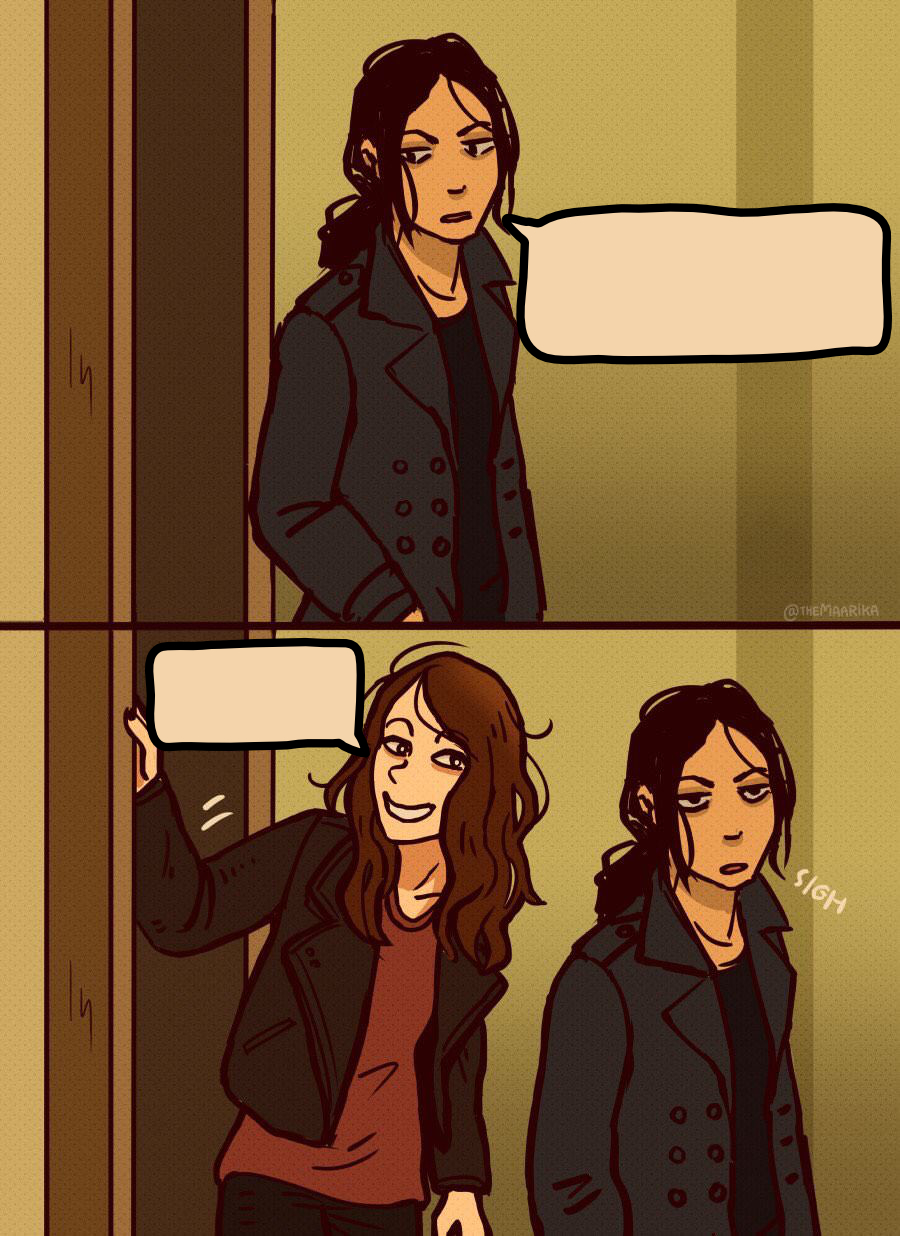
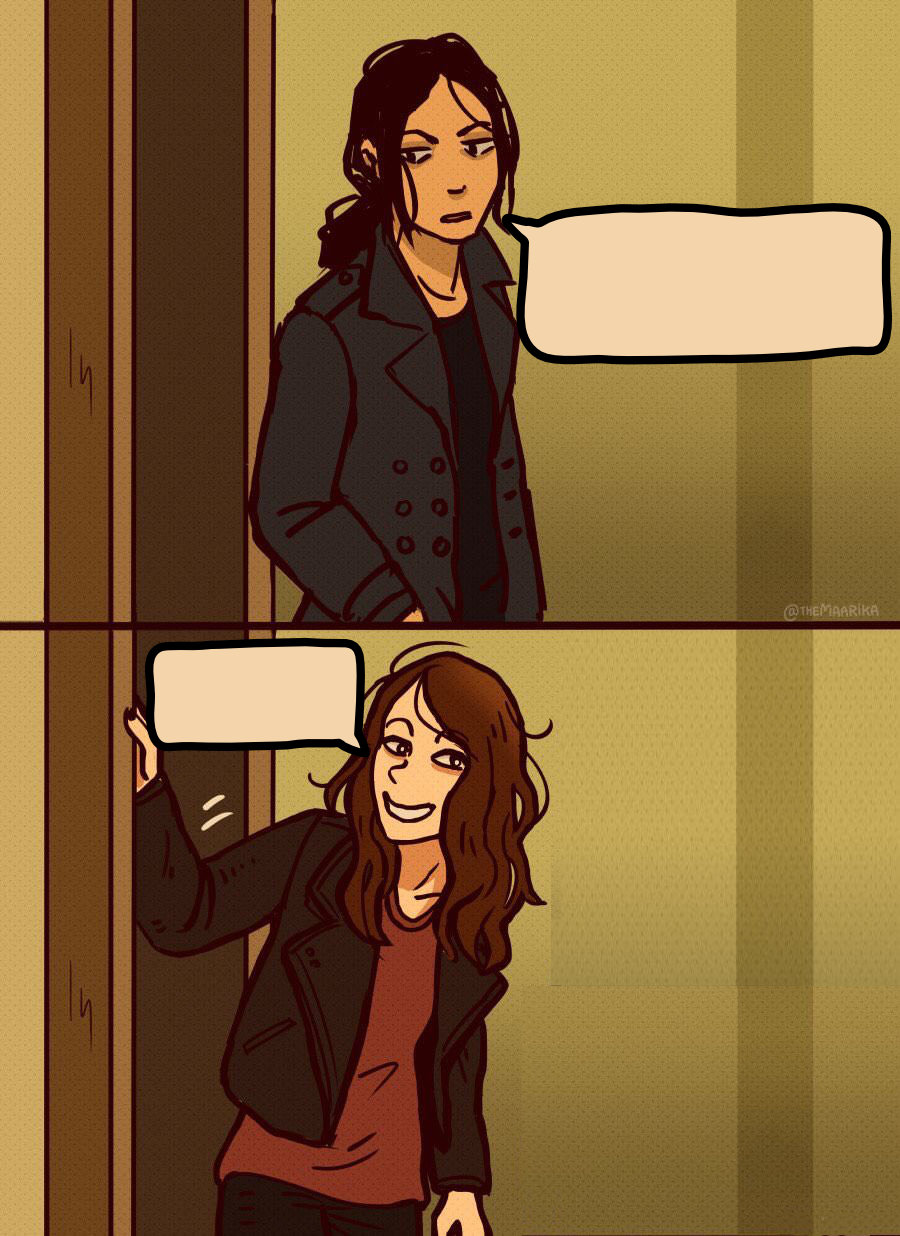
Allow making the girl tall in sorry I’m late (#140)

Changed region(s): [[0.56, 0.5534, 0.9333, 1.0]]

diff --git a/generators/SorryImLate/buildAltText.ts b/generators/SorryImLate/buildAltText.ts
@@ -2,17 +2,19 @@ import { SettingValues } from '../../types/SettingTypes';
 import { SorryImLateSettings } from './types';
 
 export const buildAltText = (settings: SettingValues<SorryImLateSettings>) => {
-  const { panel1Text, panel2Text } = settings;
+  const { panel1Text, panel2Text, tallGirl } = settings;
 
   const panel1Description = panel1Text
     ? `saying "${panel1Text}"`
     : 'and has an empty speech bubble';
   const panel2Description = panel2Text ? `"${panel2Text}"` : 'nothing';
 
+  const heightDescription = tallGirl === 'Yes' ? ', taller ' : '';
+
   return (
     'A two panel comic. ' +
     `In the first panel, a woman in a long black coat and black hair tied in a ponytail is walking through a door ${panel1Description}. ` +
-    `In the second panel, another woman in a leather jacket and shoulder length brown hair is leaning through the doorway saying ${panel2Description}. ` +
+    `In the second panel, another${heightDescription} woman in a leather jacket and shoulder length brown hair is leaning through the doorway saying ${panel2Description}. ` +
     'The first woman is sighing.'
   );
 };

diff --git a/generators/SorryImLate/generate.ts b/generators/SorryImLate/generate.ts
@@ -8,9 +8,9 @@ import { SorryImLateSettings } from './types';
 
 export const generate: GeneratorFunction<SorryImLateSettings> = async (
   canvas,
-  settings
+  settings,
 ) => {
-  const { panel1Text = '', panel2Text } = settings;
+  const { panel1Text = '', panel2Text, tallGirl } = settings;
 
   const image = await loadImage('/assets/sorry-im-late.jpg');
   const { width, height } = image;
@@ -26,6 +26,10 @@ export const generate: GeneratorFunction<SorryImLateSettings> = async (
   }
 
   ctx.drawImage(image, 0, 0);
+
+  const girlImage = await loadImage('/assets/sorry-im-late-girl.png');
+  const girlY = tallGirl === 'Yes' ? 753 : 673;
+  ctx.drawImage(girlImage, 515, girlY);
 
   const multilineText = new MultilineText(ctx, { fontSize: FONT_SIZE });
 

diff --git a/generators/SorryImLate/index.ts b/generators/SorryImLate/index.ts
@@ -23,5 +23,13 @@ export const sorryImLateGenerator: Generator<SorryImLateSettings> = {
       type: SettingType.Text,
       params: {},
     },
+    tallGirl: {
+      name: 'Tall girl',
+      type: SettingType.Dropdown,
+      params: {
+        options: ['No', 'Yes'],
+      },
+      defaultValue: 'No',
+    },
   },
 };

diff --git a/generators/SorryImLate/types.ts b/generators/SorryImLate/types.ts
@@ -1,6 +1,7 @@
-import { TextSetting } from '../../types/SettingTypes';
+import { DropdownSetting, TextSetting } from '../../types/SettingTypes';
 
 export type SorryImLateSettings = {
   panel1Text: TextSetting;
   panel2Text: TextSetting;
+  tallGirl: DropdownSetting;
 };
